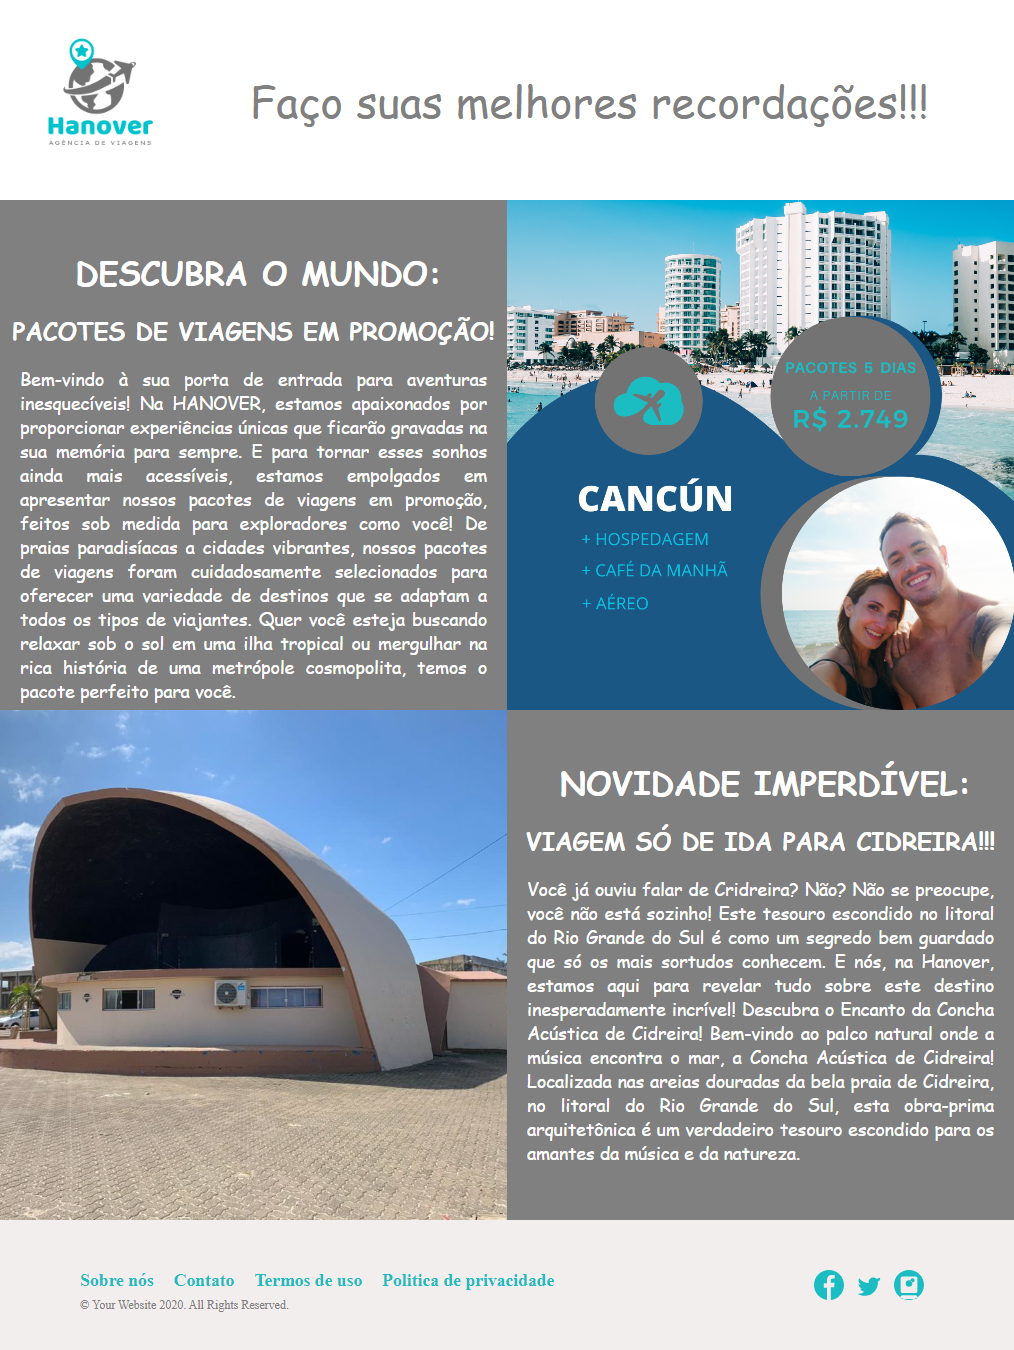
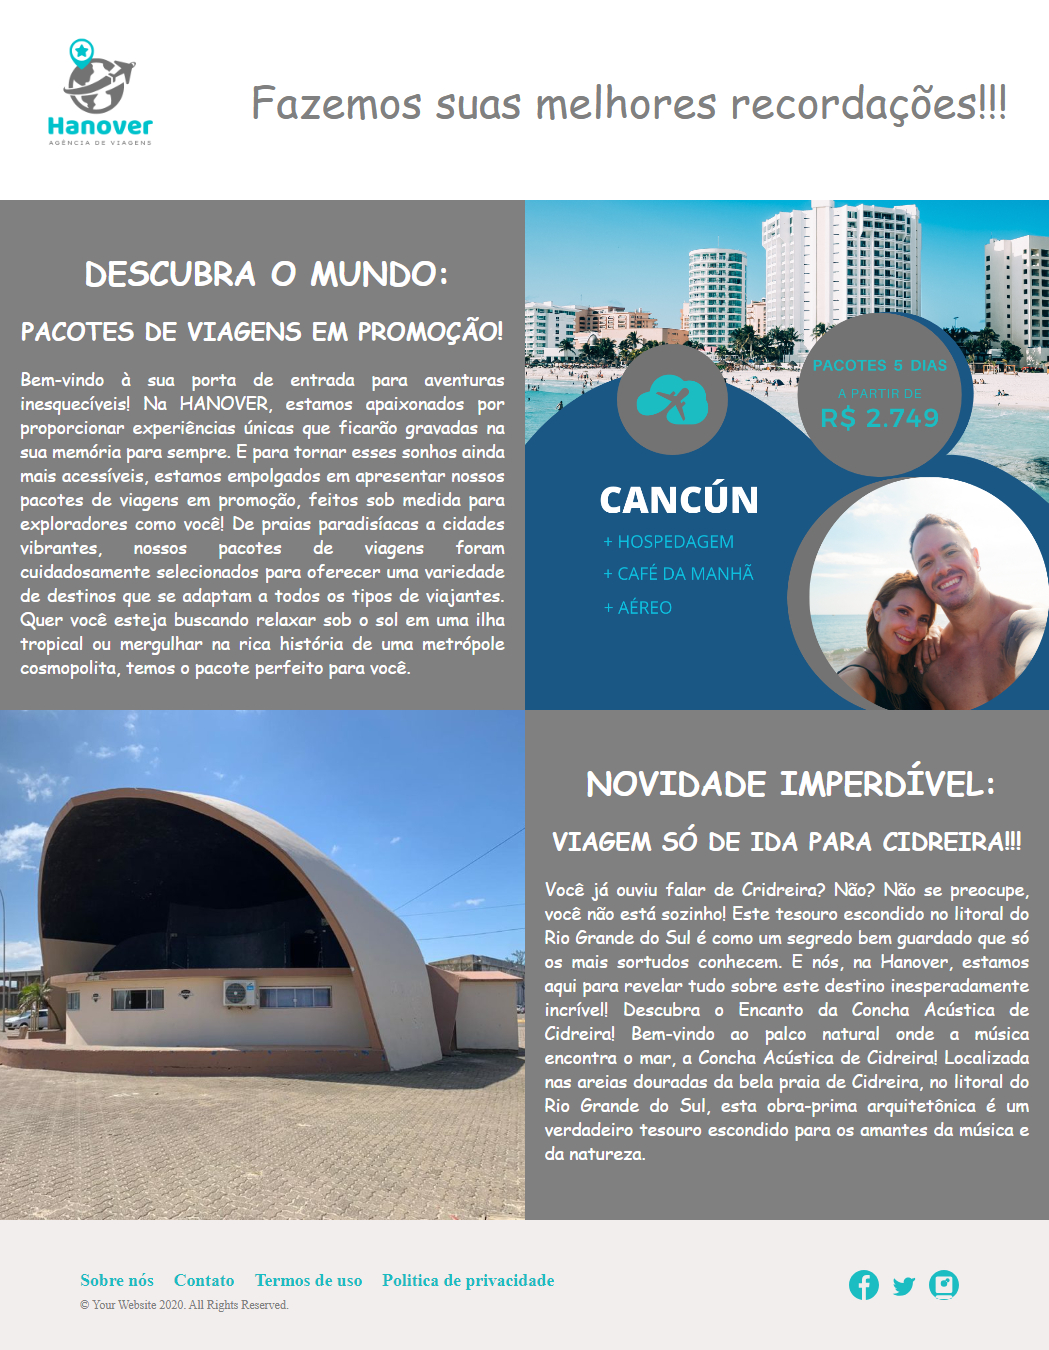
final

diff --git a/src/pages/home.tsx b/src/pages/home.tsx
@@ -10,7 +10,7 @@ export function Home() {
     <Fragment>
       <Welcome>
         <Logo $image={logo} />
-        <p>Faço suas melhores recordações!!!</p>
+        <p>Fazemos suas melhores recordações!!!</p>
       </Welcome>
       <Banner />
       <Footer />
